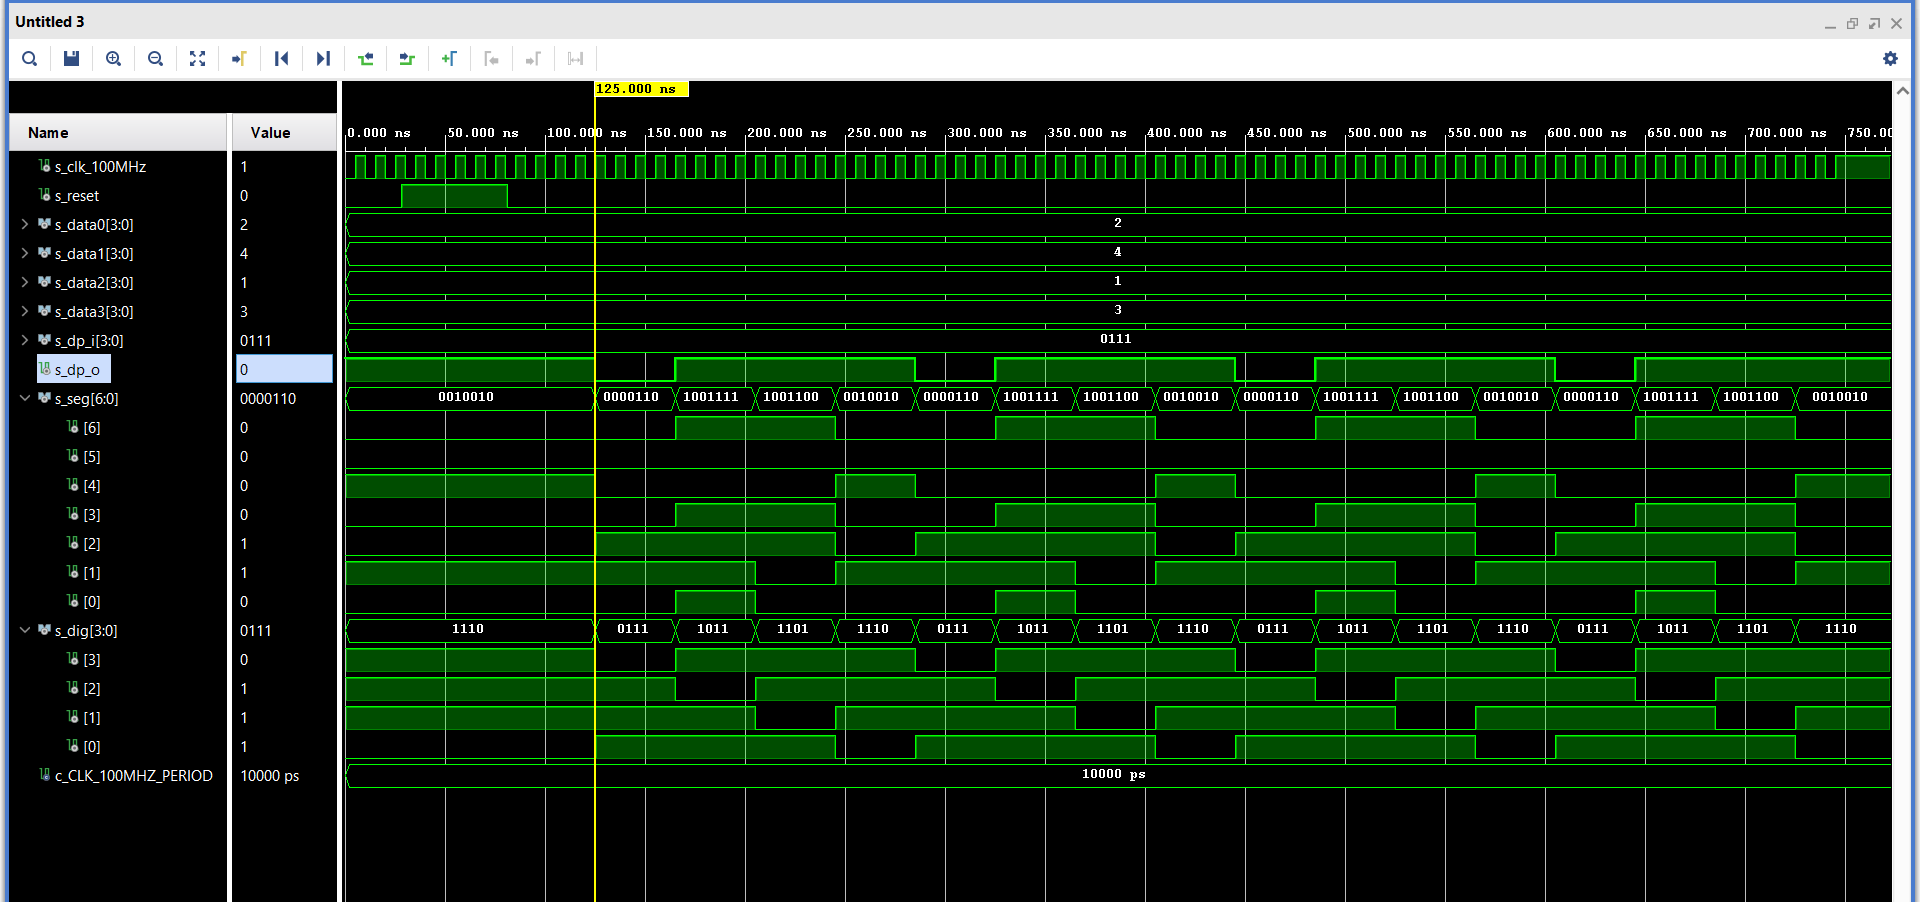
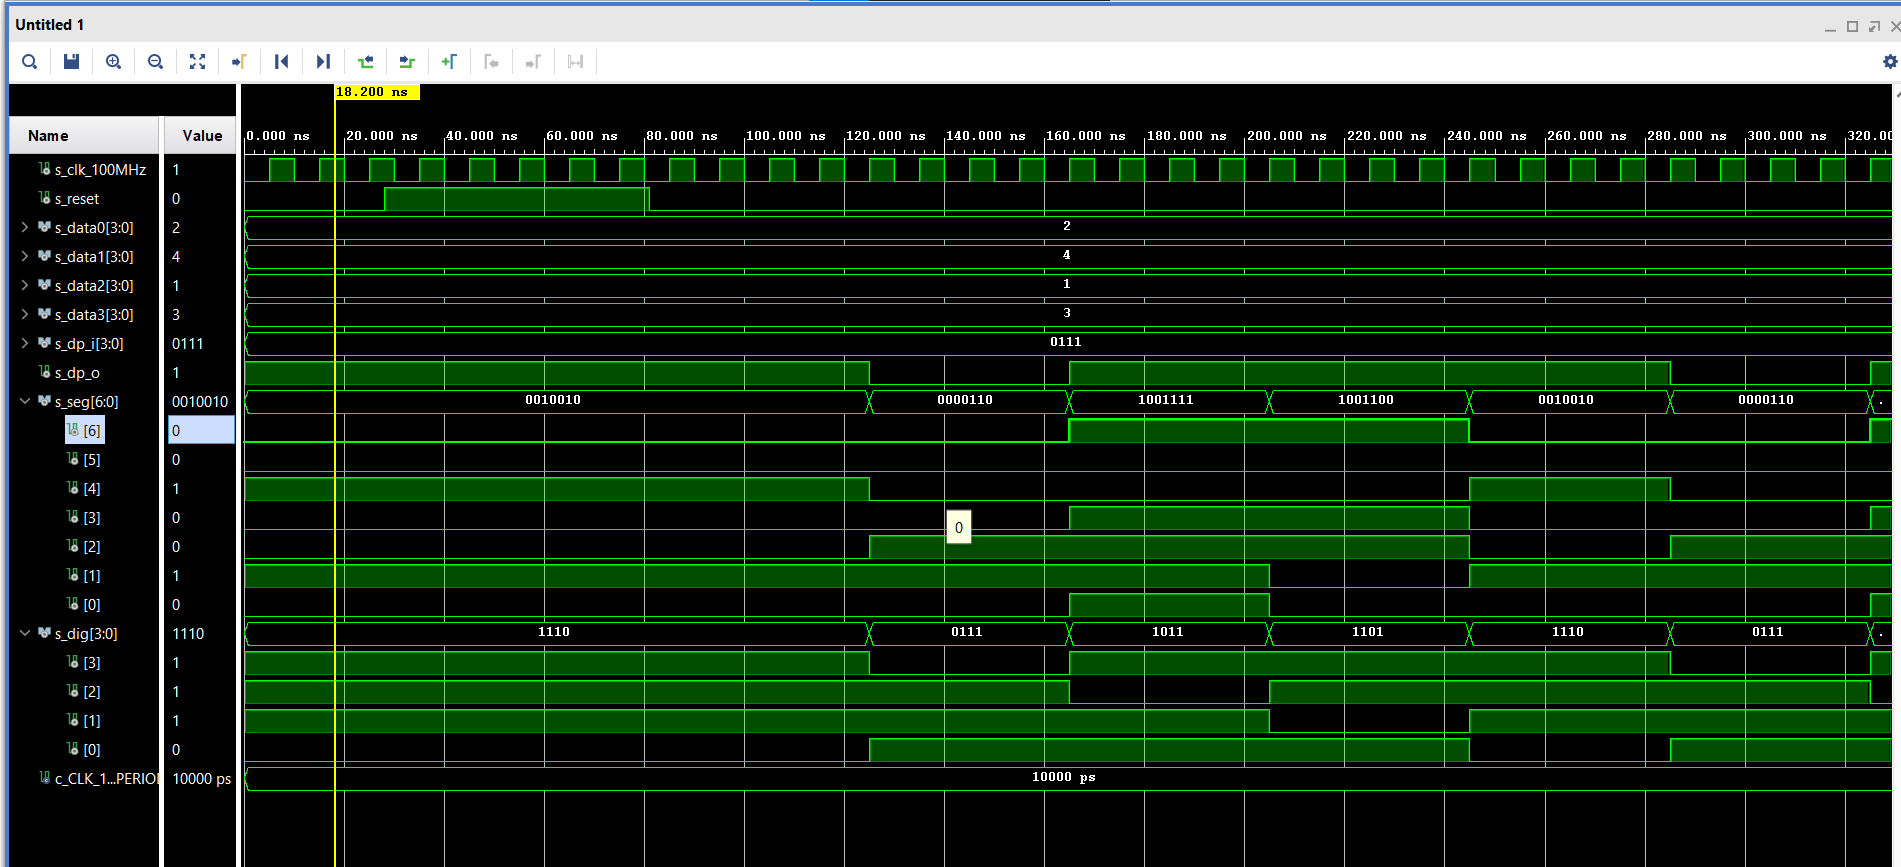
Lab6

diff --git a/06-Driver for multiple seven-segment displays/README.md b/06-Driver for multiple seven-segment displays/README.md
@@ -172,7 +172,13 @@ begin
         s_data0  <=  "0010";
         
         s_dp_i   <=  "0111";
+
+          wait for 350 ns;
         
+        s_data3  <=  "0001";
+        s_data2  <=  "0000";
+        s_data1  <=  "0001";
+        s_data0  <=  "0000";
         
         report "Stimulus process finished" severity note;
         wait;
@@ -183,6 +189,8 @@ end architecture testbench;
 
 ### Screenshot with simulated time waveforms
 ![Screenshot od EDA Playground](image6/Druhe.png)
+![Screenshot od EDA Playground](image6/Stvrte.png)
+
 
 ### Listing of VHDL architecture of the top layer
 ```vhdl
